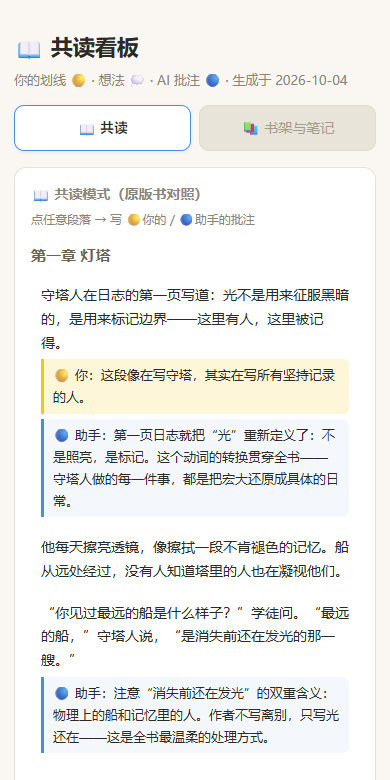
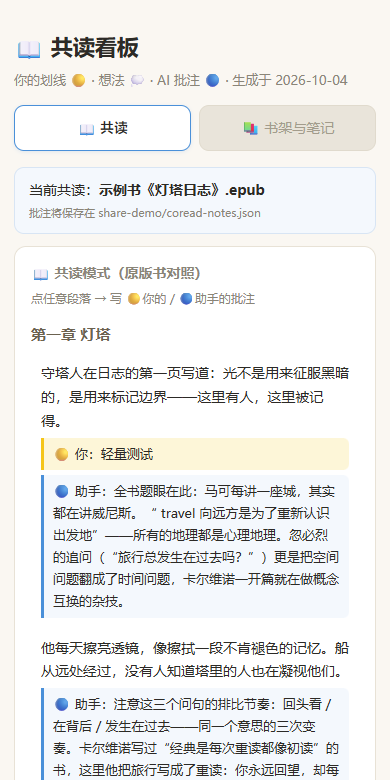
sync: 脚本同步最新版（热力图移除/自动保存/Tab修复）；截图与文档更新为极简书架页

Changed region(s): [[0.0308, 0.2154, 0.8923, 1.0], [0.9538, 0.2769, 0.9846, 0.3077]]

diff --git a/weread_dashboard.py b/weread_dashboard.py
@@ -92,35 +92,77 @@ def coread_html(coread):
                          f'<div class="seg-text">{esc(s["text"])}</div>{u}{a}</div>')
     parts.append('''<div id="editor" hidden>
       <div id="edit-which" class="mm"></div>
-      <textarea id="edit-user" placeholder="🟡 你的批注…"></textarea>
-      <textarea id="edit-ai" placeholder="🔵 助手的批注…"></textarea>
-      <button onclick="saveNote()">保存</button>
-      <span class="hint">保存后记得导出 JSON 发给助手</span>
-    </div>
-    <details id="export-box"><summary>📤 导出批注（发给助手保存）</summary><div id="coread-json"></div></details></div>''')
+      <textarea id="edit-user" placeholder="🟡 你的批注…" oninput="autoSave()"></textarea>
+      <textarea id="edit-ai" placeholder="🔵 助手的批注…" oninput="autoSave()"></textarea>
+      <div class="ed-row">
+        <button class="dl" onclick="downloadNotes()">⬇ 下载批注</button>
+        <span class="hint">输入即自动暂存（本机不丢）；下载 JSON 发给助手即长期保存</span>
+      </div>
+    </div></div>''')
     return "".join(parts)
 
 COREAD_JS = """
+function renderNotes(el, n){
+  var un=el.querySelector('.u-note'); if(un)un.remove();
+  var an=el.querySelector('.a-note'); if(an)an.remove();
+  if(n.user){var u=document.createElement('div');u.className='u-note';u.textContent='🟡 你：'+n.user;el.appendChild(u)}
+  if(n.ai){var a=document.createElement('div');a.className='a-note';a.textContent='🔵 助手：'+n.ai;el.appendChild(a)}
+}
+function persist(){
+  try{ localStorage.setItem('coread-notes', JSON.stringify(COREAD_NOTES)); }catch(e){}
+}
+function loadPersisted(){
+  try{
+    var s=localStorage.getItem('coread-notes');
+    if(!s) return;
+    var saved=JSON.parse(s);
+    for(var k in saved){
+      if(!COREAD_NOTES[k] || (!COREAD_NOTES[k].user && !COREAD_NOTES[k].ai) || saved[k].user || saved[k].ts > (COREAD_NOTES[k].ts||0))
+        COREAD_NOTES[k]=saved[k];
+    }
+    for(var k in COREAD_NOTES){
+      var el=document.getElementById('seg-'+k);
+      if(el) renderNotes(el, COREAD_NOTES[k]);
+    }
+  }catch(e){}
+}
 function pick(id){
   document.querySelectorAll('.seg.on').forEach(function(x){x.classList.remove('on')});
   var el=document.getElementById('seg-'+id);el.classList.add('on');cur=id;
-  var ed=document.getElementById('editor');ed.hidden=false;
+  var ed=document.getElementById('editor');
+  el.after(ed); ed.hidden=false;            // 编辑器跟随点选段落
   document.getElementById('edit-which').textContent='第 '+id+' 段 · '+(el.querySelector('.seg-text').textContent.slice(0,40))+'…';
   var n=COREAD_NOTES[String(id)]||{};
   document.getElementById('edit-user').value=n.user||'';
   document.getElementById('edit-ai').value=n.ai||'';
 }
-function saveNote(){
+function downloadNotes(){
+  var u=document.getElementById('edit-user').value, a=document.getElementById('edit-ai').value;
+  if(cur!=null && (u||a)){
+    COREAD_NOTES[String(cur)]={user:u,ai:a,ts:Date.now()};
+    renderNotes(document.getElementById('seg-'+cur), COREAD_NOTES[String(cur)]);
+  }
+  persist();
+  var blob=new Blob([JSON.stringify(COREAD_NOTES,null,2)],{type:'application/json'});
+  var aEl=document.createElement('a');
+  aEl.href=URL.createObjectURL(blob);
+  aEl.download='coread-notes.json';
+  aEl.click();
+  URL.revokeObjectURL(aEl.href);
+}
+// 输入即自动保存（停顿 600ms 后触发）
+var _t=null;
+function autoSave(){
   if(cur==null)return;
-  COREAD_NOTES[String(cur)]={user:document.getElementById('edit-user').value,ai:document.getElementById('edit-ai').value};
-  var el=document.getElementById('seg-'+cur);
-  var un=el.querySelector('.u-note'); if(un)un.remove();
-  var an=el.querySelector('.a-note'); if(an)an.remove();
-  var n=COREAD_NOTES[String(cur)];
-  if(n.user){var u=document.createElement('div');u.className='u-note';u.textContent='🟡 你：'+n.user;el.appendChild(u)}
-  if(n.ai){var a=document.createElement('div');a.className='a-note';a.textContent='🔵 助手：'+n.ai;el.appendChild(a)}
-  document.getElementById('coread-json').textContent=JSON.stringify(COREAD_NOTES);
-  alert('已保存在页面里。点下方「📤 导出批注」把 JSON 发给助手即可长期保存');
+  clearTimeout(_t);
+  _t=setTimeout(function(){
+    var u=document.getElementById('edit-user').value, a=document.getElementById('edit-ai').value;
+    if(u||a){
+      COREAD_NOTES[String(cur)]={user:u,ai:a,ts:Date.now()};
+      renderNotes(document.getElementById('seg-'+cur), COREAD_NOTES[String(cur)]);
+      persist();
+    }
+  },600);
 }
 """
 
@@ -133,27 +175,19 @@ h1{font-size:22px}.sub{color:var(--sub);font-size:13px;margin:4px 0 14px}
 .tabs{display:flex;gap:8px;margin-bottom:16px}
 .tab{flex:1;font:inherit;font-size:14px;font-weight:600;padding:10px 0;border:1px solid var(--blue);border-radius:10px;background:var(--card);color:var(--ink);cursor:pointer;box-shadow:0 1px 4px rgba(74,144,217,.15)}
 .tab.off{background:#e9e4da;color:#a39c8c;font-weight:400;border-color:#e0dacd;box-shadow:none}
-.kpis{display:grid;grid-template-columns:repeat(auto-fit,minmax(130px,1fr));gap:10px;margin-bottom:18px}
-.kpi{background:var(--card);border:1px solid var(--line);border-radius:12px;padding:12px 14px}
-.kpi b{display:block;font-size:21px}.kpi span{color:var(--sub);font-size:12px}
+.sum-line{color:var(--sub);font-size:13px;margin-bottom:12px}
+.sum-line b{color:var(--ink)}
 .panel{background:var(--card);border:1px solid var(--line);border-radius:12px;padding:14px 16px;margin-bottom:18px}
 .panel h3{font-size:14px;color:var(--sub);margin-bottom:10px}.hint{font-weight:400;font-size:11px;margin-left:8px}
 .cr-book{background:#f4f8fd;border:1px solid #d8e5f4;border-radius:10px;padding:10px 14px;margin-bottom:12px;font-size:14px}
 .cr-book-sub{display:block;color:var(--sub);font-size:11px;margin-top:2px}
 .cr-head{display:block}
 .cr-sub{display:block;font-weight:400;font-size:12px;color:var(--sub);margin-top:3px}
-.heat{display:flex;gap:10px;overflow-x:auto;padding-bottom:4px}
-.hm-col{display:flex;flex-direction:column;align-items:center;gap:4px;flex:0 0 auto}
-.hm-col span{font-size:10px;color:var(--sub)}
-.hm-col .cell{width:36px;height:36px;border-radius:9px}
-.cell{background:#efece5}
-.cell:hover{transform:scale(1.08)}
-.cell.l1{background:#cfe3f7}.cell.l2{background:#a3cbef}.cell.l3{background:#6fa8de}.cell.l4{background:#3d7fc1}
-.top-row{display:flex;gap:10px;padding:3px 0;font-size:14px}.rk{color:var(--sub);width:18px}
-.tm{margin-left:auto;color:var(--sub);font-size:12px}
 .search{width:100%;padding:9px 14px;border:1px solid var(--line);border-radius:10px;font:inherit;margin-bottom:12px;background:#fff}
-.book-card{background:var(--card);border:1px solid var(--line);border-radius:12px;margin-bottom:10px;overflow:hidden}
-.bh{padding:13px 16px;cursor:pointer;display:block}
+.book-card{background:var(--card);border:1px solid var(--line);border-radius:12px;margin-bottom:10px;overflow:hidden;display:flex}
+.bc-spine{width:6px;flex:0 0 6px}
+.bc-body{flex:1;min-width:0}
+.bh{padding:13px 16px 13px 12px;cursor:pointer;display:block}
 .bh:hover{background:#fdfbf7}
 .bt{font-weight:600;font-size:15px;line-height:1.45;word-break:break-word}
 .ba{color:var(--sub);font-weight:400;font-size:13px;margin-left:8px;white-space:normal}
@@ -179,10 +213,11 @@ h1{font-size:22px}.sub{color:var(--sub);font-size:13px;margin:4px 0 14px}
 .a-note{margin-top:5px;font-size:13px;background:#f4f8fd;border-left:3px solid var(--blue);padding:5px 9px;border-radius:0 6px 6px 0}
 #editor{margin-top:12px;border-top:1px dashed var(--line);padding-top:10px}
 textarea{width:100%;min-height:56px;font:inherit;padding:8px;border:1px solid var(--line);border-radius:8px;margin:4px 0}
-button{font:inherit;padding:7px 18px;border:0;border-radius:8px;background:var(--blue);color:#fff;cursor:pointer}
+button{font:inherit;padding:7px 16px;border:0;border-radius:8px;background:var(--blue);color:#fff;cursor:pointer}
+button.dl{background:#6ba26b}
+.ed-row{display:flex;align-items:center;gap:8px;margin-top:2px}
+.ed-row .hint{flex:1;font-size:11px}
 #coread-json{margin-top:8px;padding:8px;background:#f6f4ee;border-radius:8px;font:11px/1.5 monospace;word-break:break-all;max-height:140px;overflow:auto;color:#7a7466}
-#export-box{margin-top:12px}
-#export-box summary{cursor:pointer;color:var(--blue);font-size:13px;padding:6px 0}
 footer{margin-top:26px;text-align:center;color:var(--sub);font-size:12px}
 """
 
@@ -232,21 +267,12 @@ def main():
     total_hl = sum(b["hl"] for b in per_book)
     total_th = sum(b["th"] for b in per_book)
 
-    rd = stats.get("overall") or {}
-    heat = sorted((int(k), int(v or 0)) for k, v in (rd.get("readTimes") or {}).items())
-    max_heat = max([v for _, v in heat], default=1) or 1
-
-    kpis = "".join(
-        f'<div class="kpi"><b>{v}</b><span>{label}</span></div>' for v, label in [
-            (len(books), "书架藏书"), (len(nb_list), "有笔记的书"),
-            (total_hl, "划线"), (total_th, "想法"),
-            (fmt_time(rd.get("totalReadTime")), "累计阅读"),
-        ])
-    cells = "".join(
-        f'<div class="hm-col"><div class="cell l{0 if v == 0 else min(4, v * 4 // max_heat + 1)}" title="{fmt_date(k)}：{fmt_time(v)}"></div><span>{time.strftime("%y-%m", time.localtime(k))}</span></div>'
-        for k, v in heat)
+    summary = f"共 <b>{len(per_book)}</b> 本有笔记 · <b>{total_hl}</b> 条划线 · <b>{total_th}</b> 条想法"
 
     # ---- 书卡 ----
+    SPINE_COLORS = ["#5b8fd9", "#e0a63f", "#9b6bd3", "#5fae72", "#d97b8f", "#6bb8c9", "#c9825a", "#8a9a6b"]
+    def spine_color(title):
+        return SPINE_COLORS[sum(ord(c) for c in (title or "?")) % len(SPINE_COLORS)]
     cards = []
     for b in per_book:
         items_html = "".join(
@@ -261,10 +287,11 @@ def main():
         link = f'<a class="open" href="{esc(b["deepLink"])}" target="_blank">阅读 ↗</a>' if b.get("deepLink") else ""
         stats_line = f'<div class="bs">🟡 {b["hl"]} · 💭 {b["th"]}{prog}{recent}{link}</div>'
         cards.append(
-            f'<div class="book-card"><div class="bh" onclick="tg(this)">'
+            f'<div class="book-card"><div class="bc-spine" style="background:linear-gradient(180deg,{spine_color(b["title"])},{spine_color(b["title"])}cc)"></div>'
+            f'<div class="bc-body"><div class="bh" onclick="tg(this)">'
             f'<div class="bt">{esc(b["title"])}<span class="ba">{esc(b["author"])}</span></div>'
             f'{stats_line}'
-            f'</div><div class="bb" hidden>{items_html}</div></div>')
+            f'</div><div class="bb" hidden>{items_html}</div></div></div>')
     cards_html = "".join(cards)
 
     # ---- 共读库（EPUB 拆分结果，可选） ----
@@ -288,8 +315,7 @@ def main():
 </div>'''
     coread_page = f'<div id="page-coread" class="page"{" hidden" if not coread else ""}>{cr_book}{cr_html}</div>'
     shelf_page = f'''<div id="page-shelf" class="page"{" hidden" if coread else ""}>
-<div class="kpis">{kpis}</div>
-<div class="panel"><h3>🔥 阅读轨迹</h3><div class="heat">{cells or '<div class="empty">暂无</div>'}</div></div>
+<div class="sum-line">{summary}</div>
 <input class="search" placeholder="搜索书名 / 作者 / 划线内容…">
 {cards_html}
 </div>'''
@@ -317,11 +343,13 @@ c.querySelectorAll('.mark').forEach(function(m){{m.style.display=m.querySelector
 else{{c.querySelectorAll('.mark').forEach(function(m){{m.style.display=''}})}}
 }})}});
 {cr_js}
+loadPersisted();
 function go(w){{
   document.querySelectorAll('.page').forEach(function(p){{p.hidden=true}});
   document.getElementById('page-'+w).hidden=false;
-  document.querySelectorAll('.tab').forEach(function(t){{t.classList.remove('off')}});
-  document.getElementById('tab-'+w).classList.add('off');
+  document.querySelectorAll('.tab').forEach(function(t){{t.classList.add('off')}});
+  document.getElementById('tab-'+w).classList.remove('off');
+  window.scrollTo({{top:0}});
 }}
 </script>
 </div></body></html>'''
